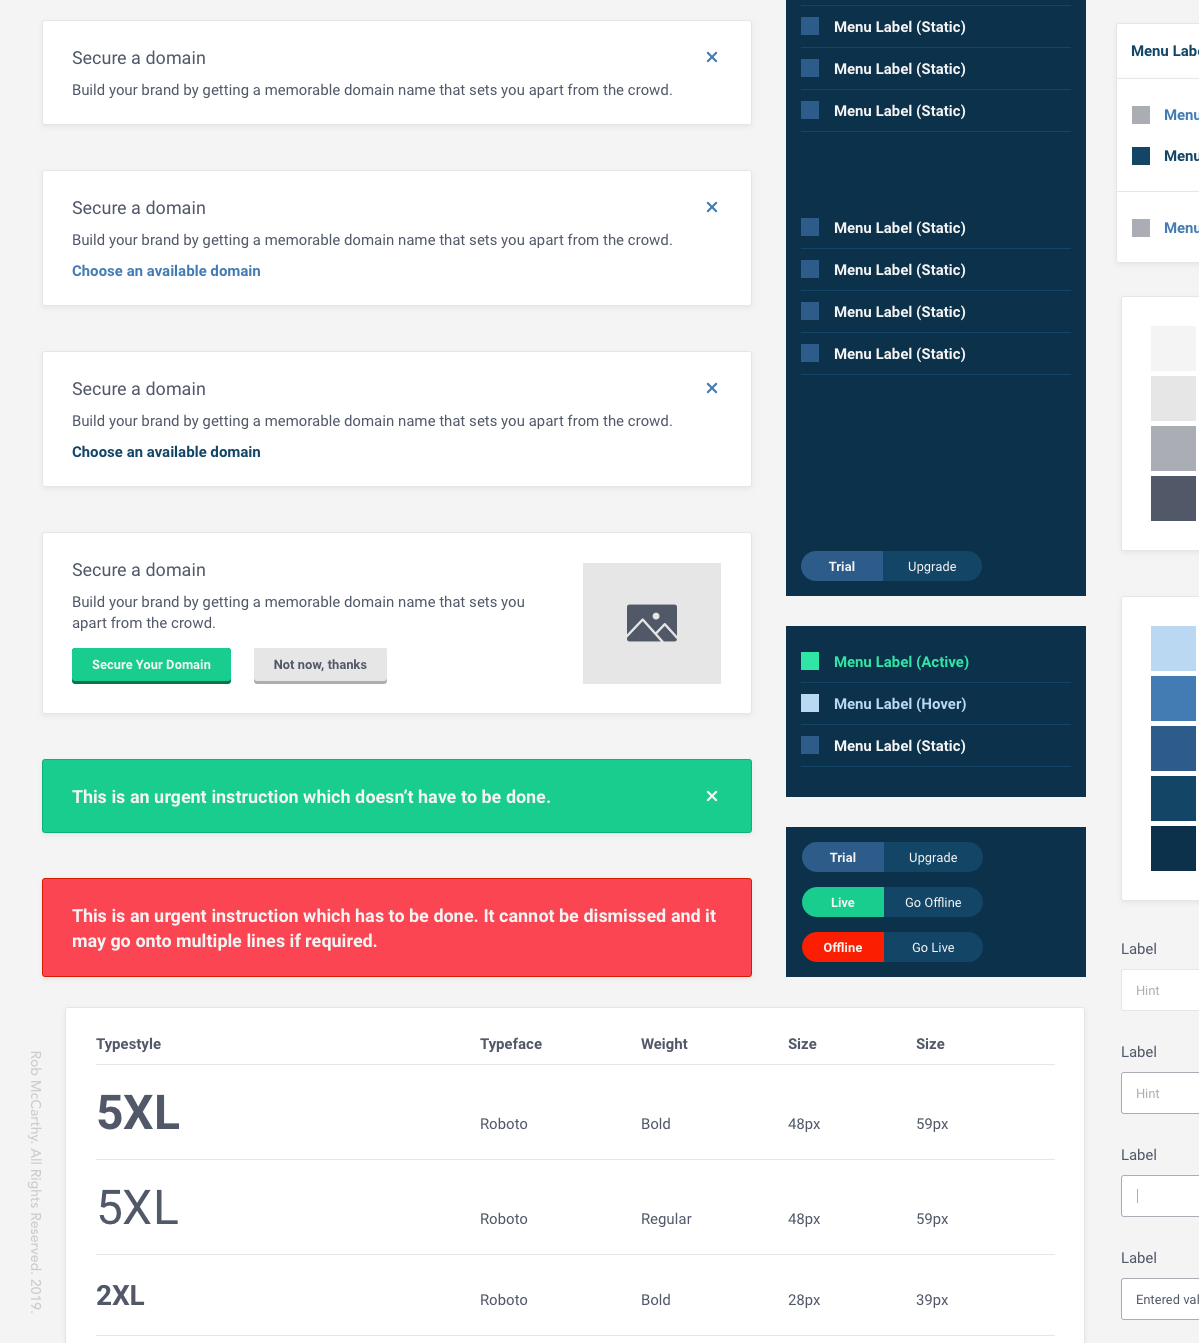
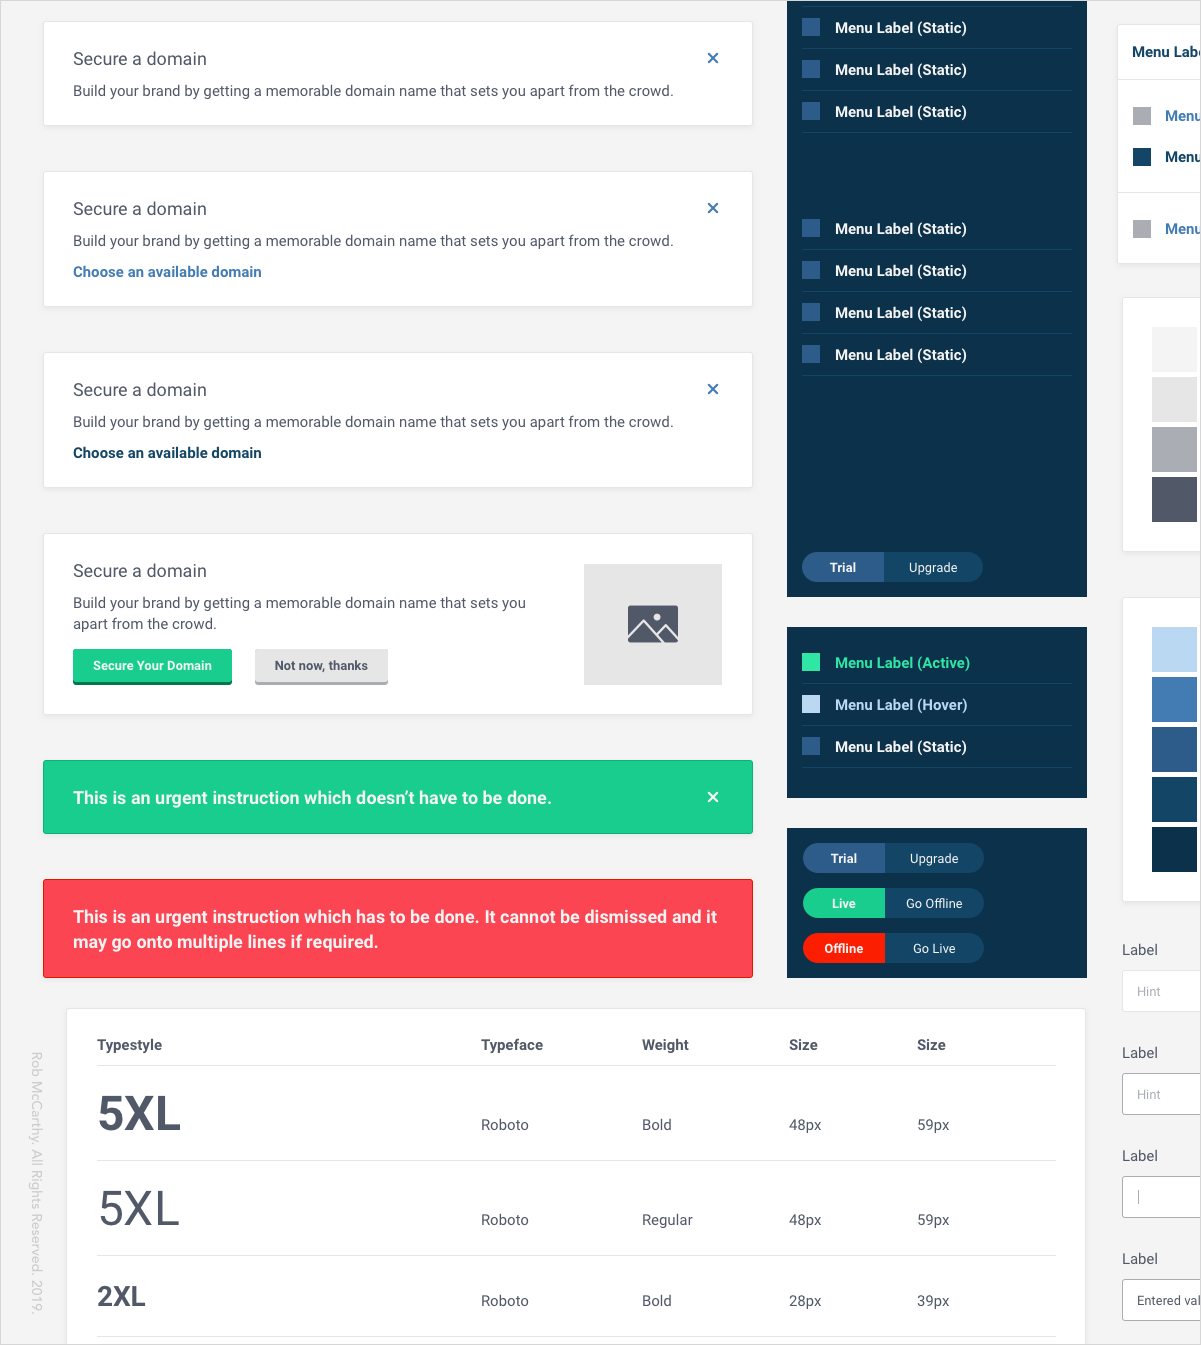
Updated images with stroke outlines.

diff --git a/work-websites4pubs.html b/work-websites4pubs.html
@@ -50,16 +50,11 @@
 
     <p class="profile">Websites4Pubs had a system that had been built upon over the years into a fully functional website builder for the pub industry. Throughout this time, the system had become bloated with features, the UI had been left untouched, and a customer acquisition strategy was non-existent.</p>
 
-</div>
-
-<div class="work-image">
-    <img class="work-image-page" src="./work-image-three.png">
-</div>
-
-<div class="profile-text">
-
     <p class="profile">Working within a small product development team, our strategy was simple; keep existing customers happy on the current system, whatever it took, whilst developing a new system that we could soft launch to existing customers.</p>
-  </div>
+
+    <p class="profile">At the early stages of development, we engaged with the existing customer base who were invaluable for user research, and for creating use cases.</p>
+
+     </div>
 
     <div id="work-picture-middle">
       <img class="rob-profile" src="./w4p-case-study-image-three.png">
@@ -67,13 +62,12 @@
 
   <div class="profile-text">
 
-    <p class="profile">At the early stages of development, we engaged with the existing customer base who were invaluable for user research, and for creating use cases.</p>
-
     <p class="profile">Prioritisation of features was key, and this was driven by conversations with existing customers as well as usage data logged in the existing system. Whilst the existing system was extensively feature rich, we found a number of features that were completely unused. These features never made it onto our backlog.</p>
 
     <p class="profile">As a small development team, we were working in a highly collaborative way throughout the entire project. Whilst working with 2 x full stack developers, I was responsible for the information architecture, UI and UX design, as well as product ownership and management.</p>
 
     <p class="profile">I created a design system, named Optic, that worked across a website builder, account system, and site management system. Creating this design system enabled my colleagues to apply a consistent and coherent UI whilst I continued to work on information architecture for further features.</p>
+<br>
 
     </div>
 
